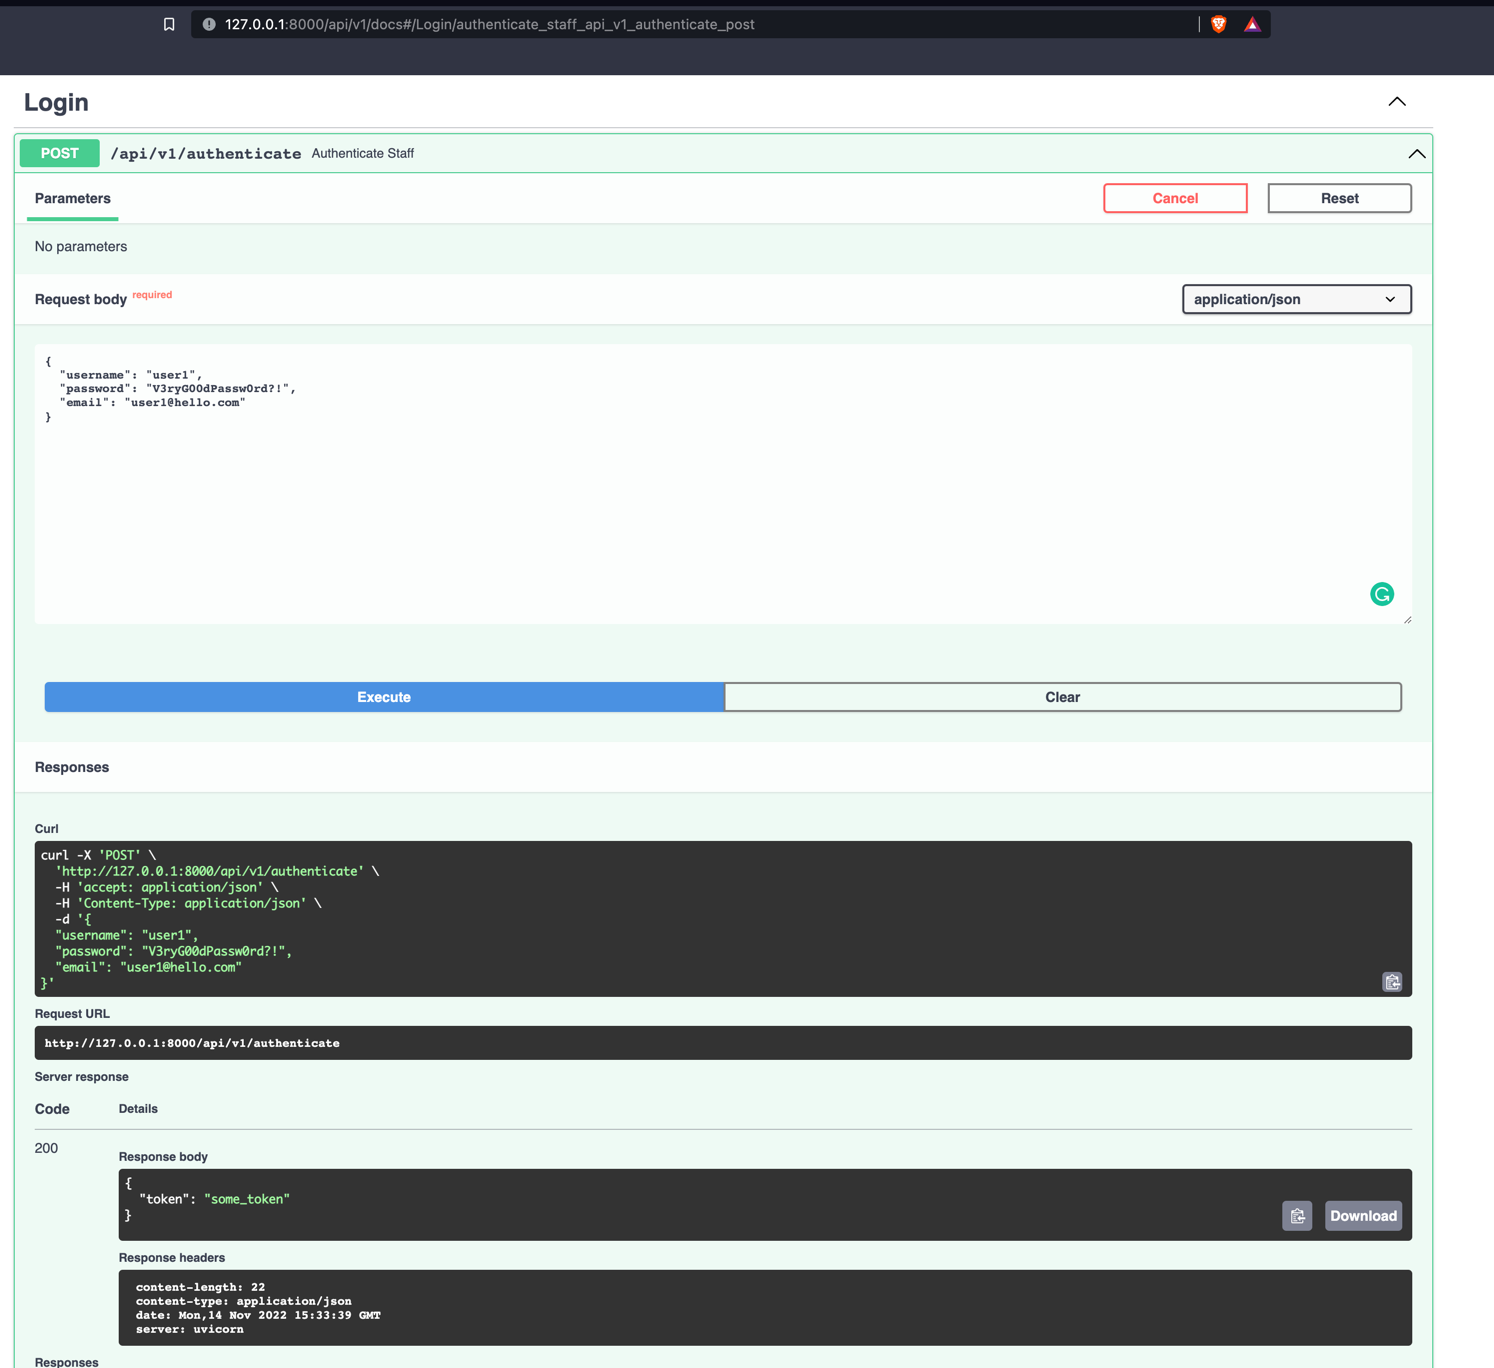
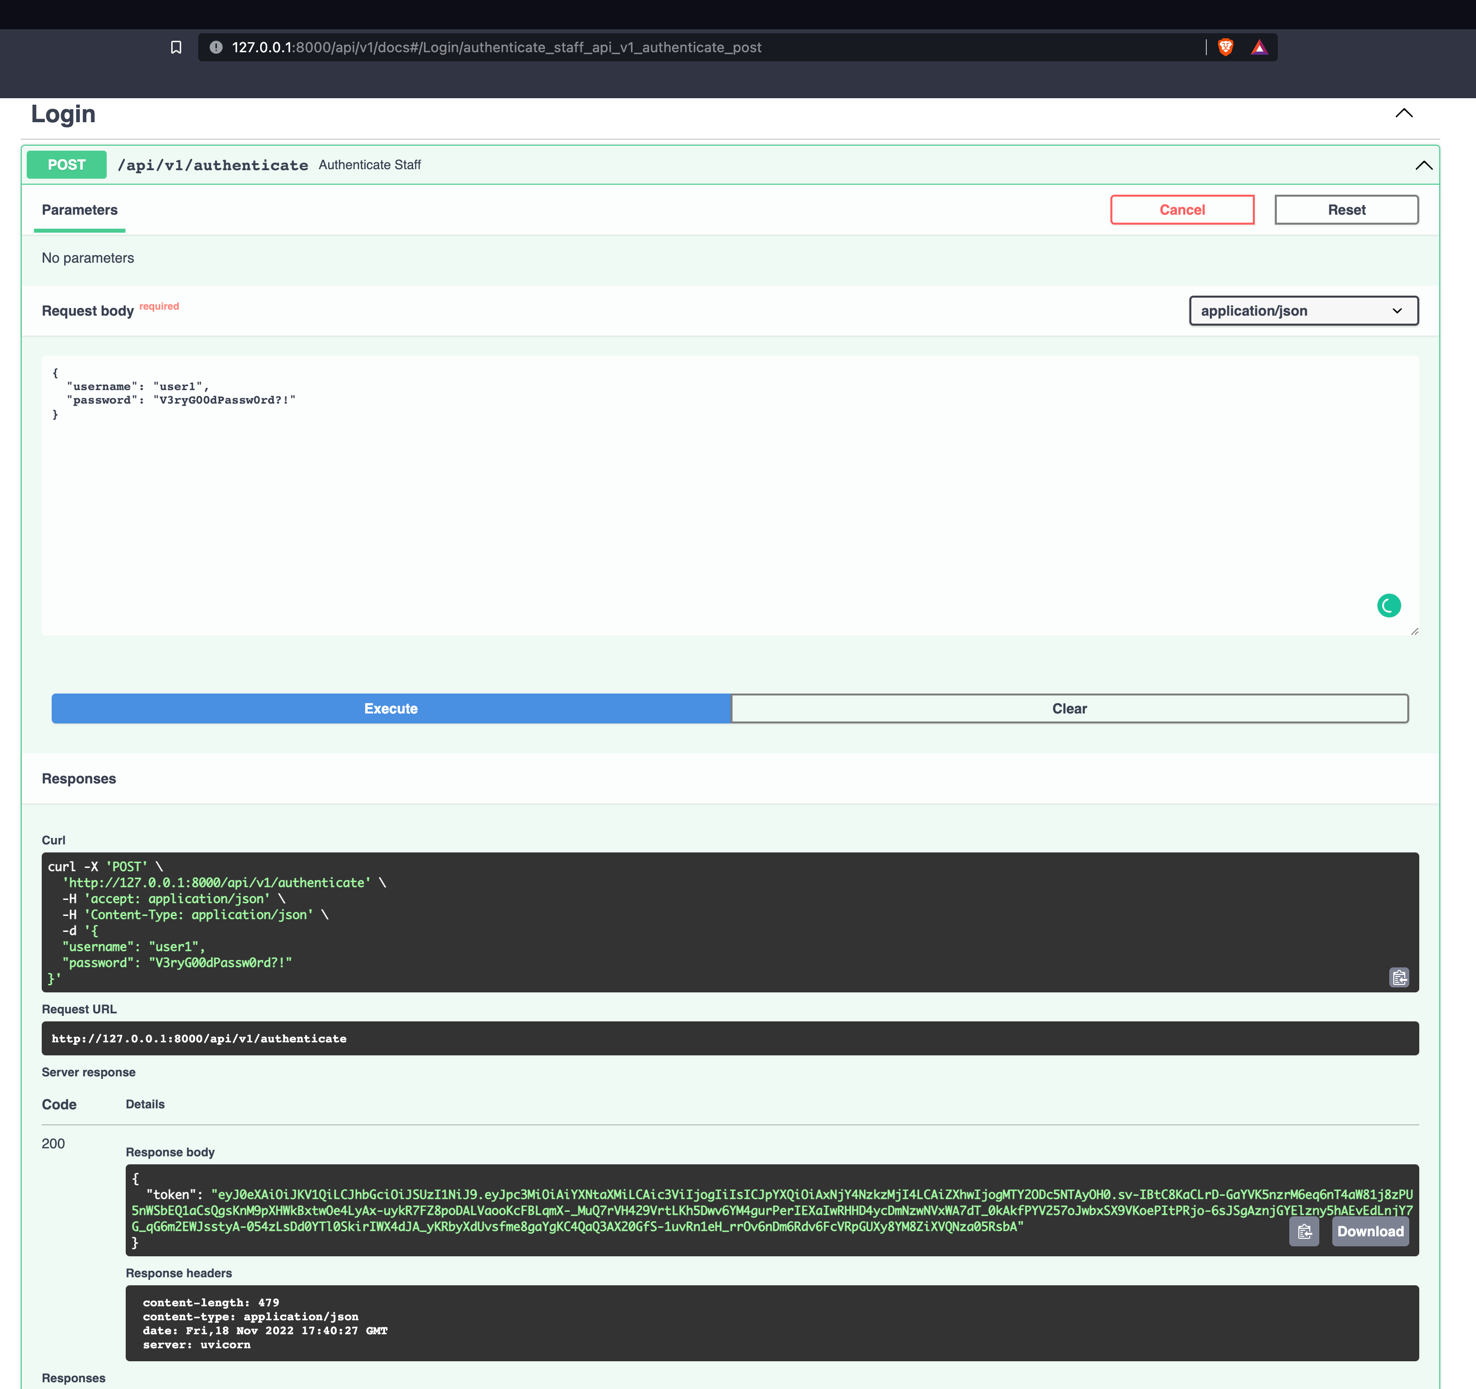
fixed README.md

diff --git a/README.md b/README.md
@@ -76,7 +76,7 @@ This helps prevents staff from practicing poor password hygiene and makes brute 
 * If login or creation of user fails due to wrong username or password or already existing data. The error message forwarded is generic and does
 not expose any information about what is missing or wrong.
 * After authentication tokens are signed using a [private key](./private_key_for_testing_purposes.pem). 
-The digitally signed tokens prevents spoofing. The spoofing is tested using an unsigned token which is rejected by the automatic tests [spoofing test](./tests/utils/test_jwt_utils.py).   
+The digitally signed tokens prevents spoofing. The spoofing is tested using an unsigned token which is rejected by the [automatic test](./tests/utils/test_jwt_utils.py).   
 * Logging application error in ```JSON``` format, this helps the Security information and event management (SIEM) parse the errors easily.
 
 # Outputs
@@ -89,8 +89,10 @@ Execute ```Select * from main.staff``` to see all the contents of the table.
   * ![Create Staff User](./docs/images/account_creation.png)
 
 * The staff creation process using the swagger UI to call the ```/authenticate``` endpoint, a success HTTP status 200 created  
-with a fake token is returned. This token should be replaced with an access token using the OAuth2 flow (Oauth.net. 2020).
+with a fake token is returned. A Signed JWT token is used so that Oauth flow can be implemented (Oauth.net. 2020).
   * ![Create Staff User](./docs/images/account_verification.png)
+* A user is blocked due to too many login attempts.
+  * * ![Create Staff User](./docs/images/too_many_attempts.png)
 # References
 
 * Tutorial on how to run fastapi in a local
